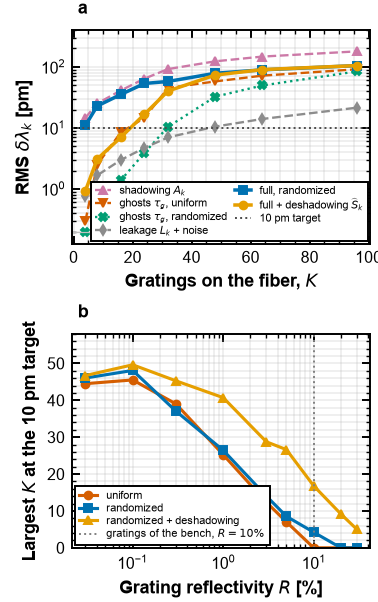
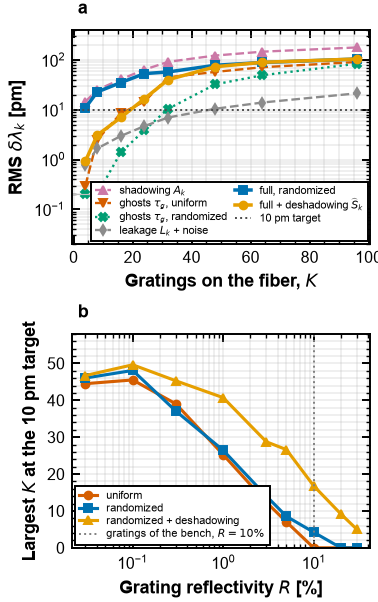
s12 (a): legenda ponizej podlogi 0.2 pm, krzywe odsloniete

Changed region(s): [[0.0873, 0.0598, 0.9894, 0.3887], [0.0, 0.1196, 0.0873, 0.3289]]

diff --git a/python_selfcal_cdm/s12_capacity.py b/python_selfcal_cdm/s12_capacity.py
@@ -277,7 +277,7 @@ ax[0].axhline(TARGET_PM, color='0.3', ls=':', lw=1.0,
               label='%.0f pm target' % TARGET_PM)
 # os schodzi ponizej podlogi, zeby znaczniki punktow docietych byly cale
 ax[0].axhline(FLOOR, color='0.75', lw=0.6)
-ax[0].set_ylim(0.125, 400)
+ax[0].set_ylim(0.02, 400)
 ax[0].set_xlabel('gratings on the fiber, $K$')
 ax[0].set_ylabel('RMS $\\delta\\lambda_k$ [pm]')
 FS.letter(ax[0], 'a')
